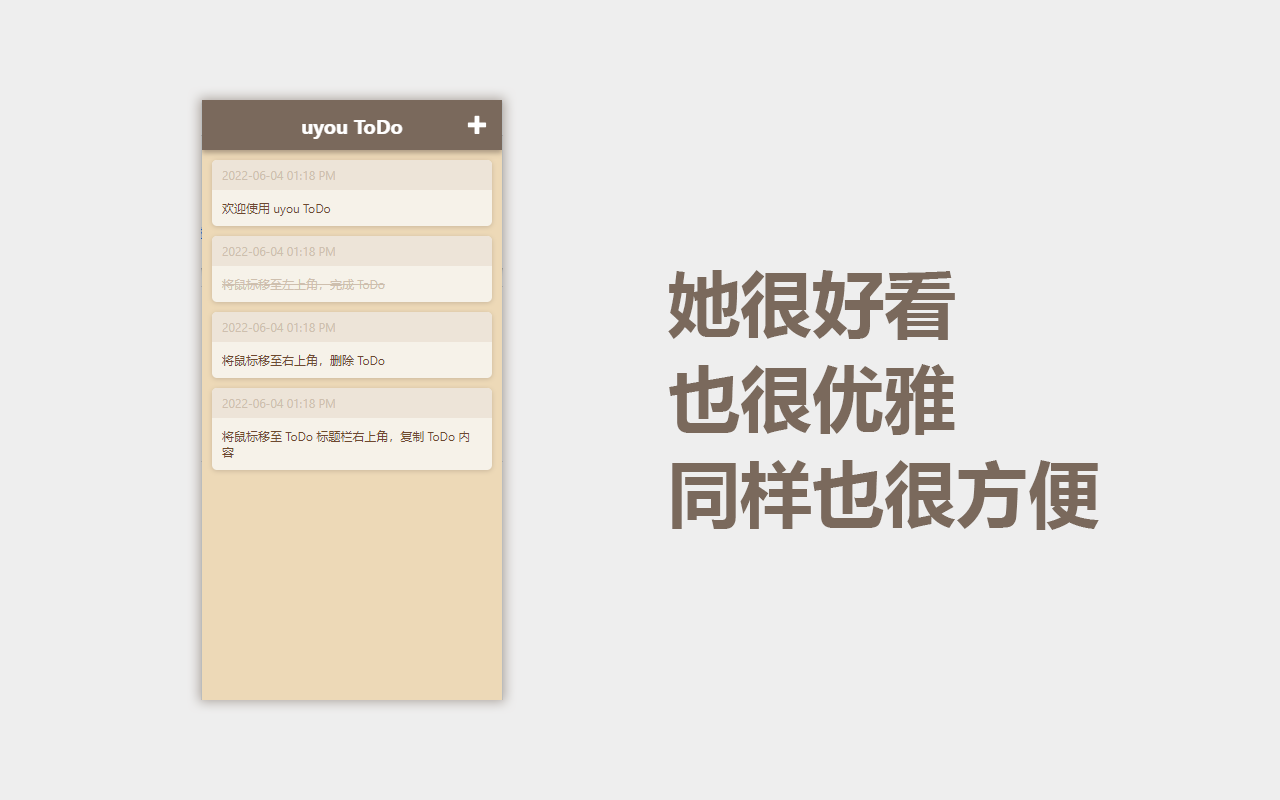
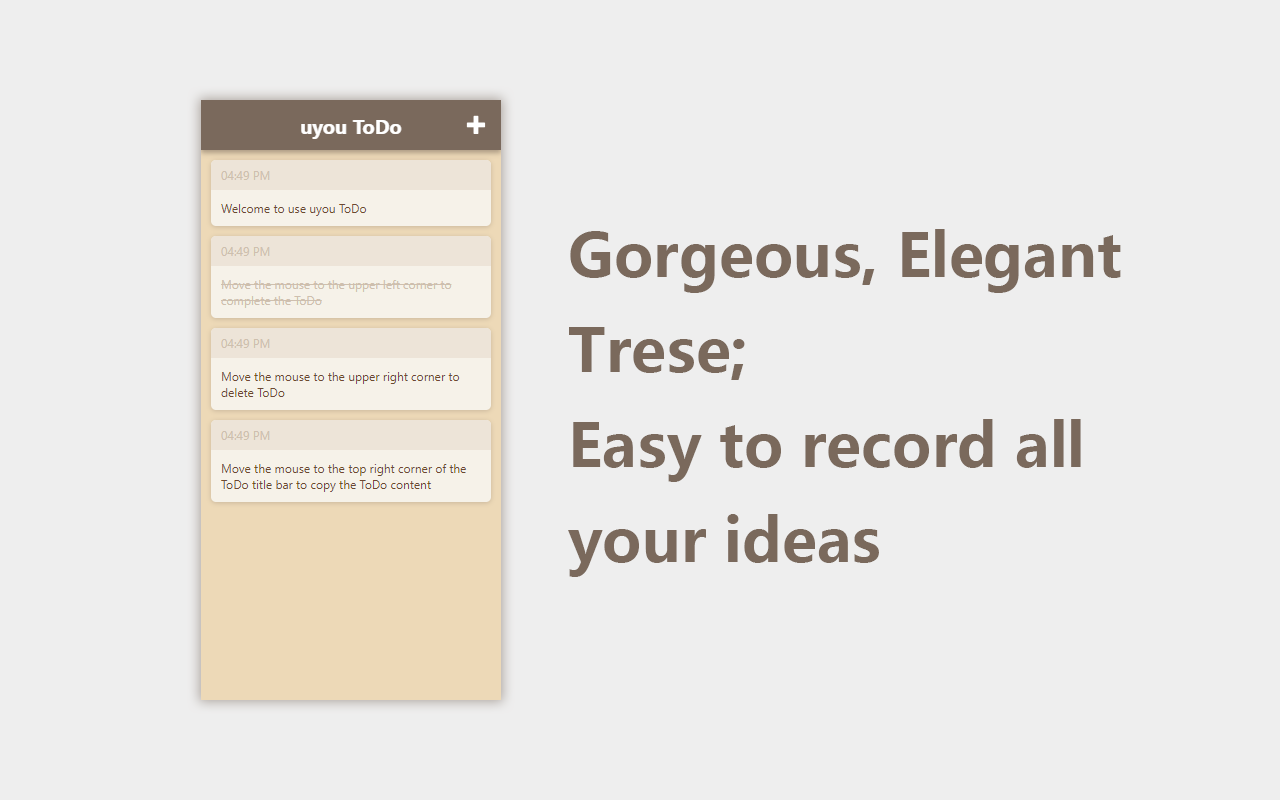
Add: Japanese support and Chinese readme

diff --git a/src/i18n/jp.ts b/src/i18n/jp.ts
@@ -1,0 +1,36 @@
+import ITodoList from "../interface/ITodoListArray"
+
+const addText = '追加'
+const cancelText = 'キャンセル'
+const copyText = 'コピー'
+const copyToast = '正常にコピー'
+const firstLoadData: ITodoList[] = [
+    {
+        text: 'uyou ToDoの使用へようこそ',
+        id: new Date().getTime(),
+        ok: false
+    },
+    {
+        text: 'マウスを左上隅に移動して、ToDoを完了します',
+        id: new Date().getTime() + 1,
+        ok: false
+    },
+    {
+        text: 'ToDoを削除するには、マウスを右上隅に移動します',
+        id: new Date().getTime() + 3,
+        ok: false
+    },
+    {
+        text: 'ToDoタイトルバーの右上隅にマウスを移動して、ToDoコンテンツをコピーします',
+        id: new Date().getTime() + 4,
+        ok: false
+    }
+]
+
+export default {
+    addText,
+    cancelText,
+    copyText,
+    copyToast,
+    firstLoadData
+}

diff --git a/src/i18n/en.ts b/src/i18n/en.ts
@@ -1,6 +1,10 @@
-import ITodoList from "../../interface/ITodoListArray"
+import ITodoList from "../interface/ITodoListArray"
 
-const en: ITodoList[] = [
+const addText = 'Add'
+const cancelText = 'Cancel'
+const copyText = 'Copy'
+const copyToast = 'Copy successfully'
+const firstLoadData: ITodoList[] = [
     {
         text: 'Welcome to use uyou ToDo',
         id: new Date().getTime(),
@@ -23,4 +27,10 @@ const en: ITodoList[] = [
     }
 ]
 
-export default en
+export default {
+    addText,
+    cancelText,
+    copyText,
+    copyToast,
+    firstLoadData
+}

diff --git a/src/i18n/cn.ts b/src/i18n/cn.ts
@@ -1,6 +1,10 @@
-import ITodoList from "../../interface/ITodoListArray"
+import ITodoList from "../interface/ITodoListArray"
 
-const cn: ITodoList[] = [
+const addText = '添加'
+const cancelText = '取消'
+const copyText = '复制'
+const copyToast = '复制成功'
+const firstLoadData: ITodoList[] = [
     {
         text: '欢迎使用 uyou ToDo',
         id: new Date().getTime(),
@@ -23,4 +27,10 @@ const cn: ITodoList[] = [
     }
 ]
 
-export default cn
+export default {
+    addText,
+    cancelText,
+    copyText,
+    copyToast,
+    firstLoadData
+}

diff --git a/src/components/List/Item/index.tsx b/src/components/List/Item/index.tsx
@@ -6,7 +6,7 @@ import IProps from "./IProps";
 import Toast from "../../Toast";
 import getTime from './getTime';
 import getOkStyle from './getOkStyle';
-import i18n from './i18n';
+import i18n from '../../../i18n';
 
 const Item: FC<IProps> = ({
   text,
@@ -63,7 +63,7 @@ const Item: FC<IProps> = ({
       <div className='ok-button' onClick={() => ok(!okState)}>
         <img src={okImg} alt='' />
       </div>
-      {toastState ? <Toast msg={i18n().toast} /> : null}
+      {toastState ? <Toast msg={i18n().copyToast} /> : null}
     </div>
   );
 }

diff --git a/src/i18n/index.ts b/src/i18n/index.ts
@@ -1,15 +1,16 @@
-import ITodoList from "../../interface/ITodoListArray";
 import cn from "./cn";
 import en from "./en";
+import jp from "./jp";
 
-const FirstLoadData = (): ITodoList[] => {
+const i18n = () => {
     var jsSrc = navigator.language.toLowerCase();
     if (jsSrc.indexOf('zh') != -1) {
         return cn
-    }
-    else {
+    } else if (jsSrc.indexOf('ja') != -1) {
+        return jp
+    } else {
         return en
     }
 }
 
-export default FirstLoadData
+export default i18n

diff --git a/src/util/FirstLoad.ts b/src/util/FirstLoad.ts
@@ -1,9 +1,9 @@
-import FirstLoadData from "../data/FirstLoadData";
+import i18n from "../i18n";
 import LocalStorage from "./LocalStorage";
 
 const FirstLoad = () => {
   const firstToDo = {
-    data: FirstLoadData()
+    data: i18n().firstLoadData
   }
   if (localStorage.getItem('ToDo') === null) {
     LocalStorage('set', firstToDo)

diff --git a/src/components/List/index.tsx b/src/components/List/index.tsx
@@ -8,7 +8,7 @@ import ITodoList from "../../interface/ITodoListArray";
 import IToDoListData from "../../interface/IToDoListData";
 import moment from "moment";
 import getOkStyle from './Item/getOkStyle';
-import i18n from './i18n';
+import i18n from '../../i18n';
 
 const List: FC<IProps> = ({
   showInput,

diff --git a/README/zh_cn/README.md b/README/zh_cn/README.md
@@ -1,0 +1,27 @@
+# uyouTodo
+ 
+[English](https://github.com/tonylu110/uyouTodo) | 中文简体
+
+## 如何使用？
+
+1. 编译
+    ``` 
+    yarn
+    yarn build
+    ```
+    * 打开 chrome 开发者模式
+    * 点击**加载已解压的扩展**按钮
+    * 选择编译好的文件夹安装
+    
+2. 在 chrome 网上应用店或 edge 外接商店下载\
+   chrome：[前往 chrome 网上应用店](https://github.com/tonylu110/uyouTodo/releases)\
+   edge：[前往 edge 外接商店](https://microsoftedge.microsoft.com/addons/detail/uyou-todo/efmogbhijocfeiaflifgjjkmfhjoplnp)
+
+3. 在 release 页面下载 crx 文件安装\
+   [前往 release 页面](https://github.com/tonylu110/uyouTodo/releases)
+
+## 预览
+![](../../demo/demo1.png)
+![](../../demo/zh_cn/demo2.png)
+![](../../demo/zh_cn/demo3.png)
+![](../../demo/zh_cn/demo4.png)

diff --git a/README.md b/README.md
@@ -1,5 +1,7 @@
 # uyouTodo
  
+English | [中文简体](https://github.com/tonylu110/uyouTodo/tree/main/README/zh_cn)
+
 ## How to use ?
 
 1. Build chrome extension
@@ -13,7 +15,7 @@
     
 2. Chrome web store or edge addons store\
    chrome: [TO CHROME WEB STORE](https://github.com/tonylu110/uyouTodo/releases)\
-   edge: [TO EDGE ADDONS STORE](https://github.com/tonylu110/uyouTodo/releases)
+   edge: [TO EDGE ADDONS STORE](https://microsoftedge.microsoft.com/addons/detail/uyou-todo/efmogbhijocfeiaflifgjjkmfhjoplnp)
 
 3. To release page and download crx\
    [TO RELEASE](https://github.com/tonylu110/uyouTodo/releases)
